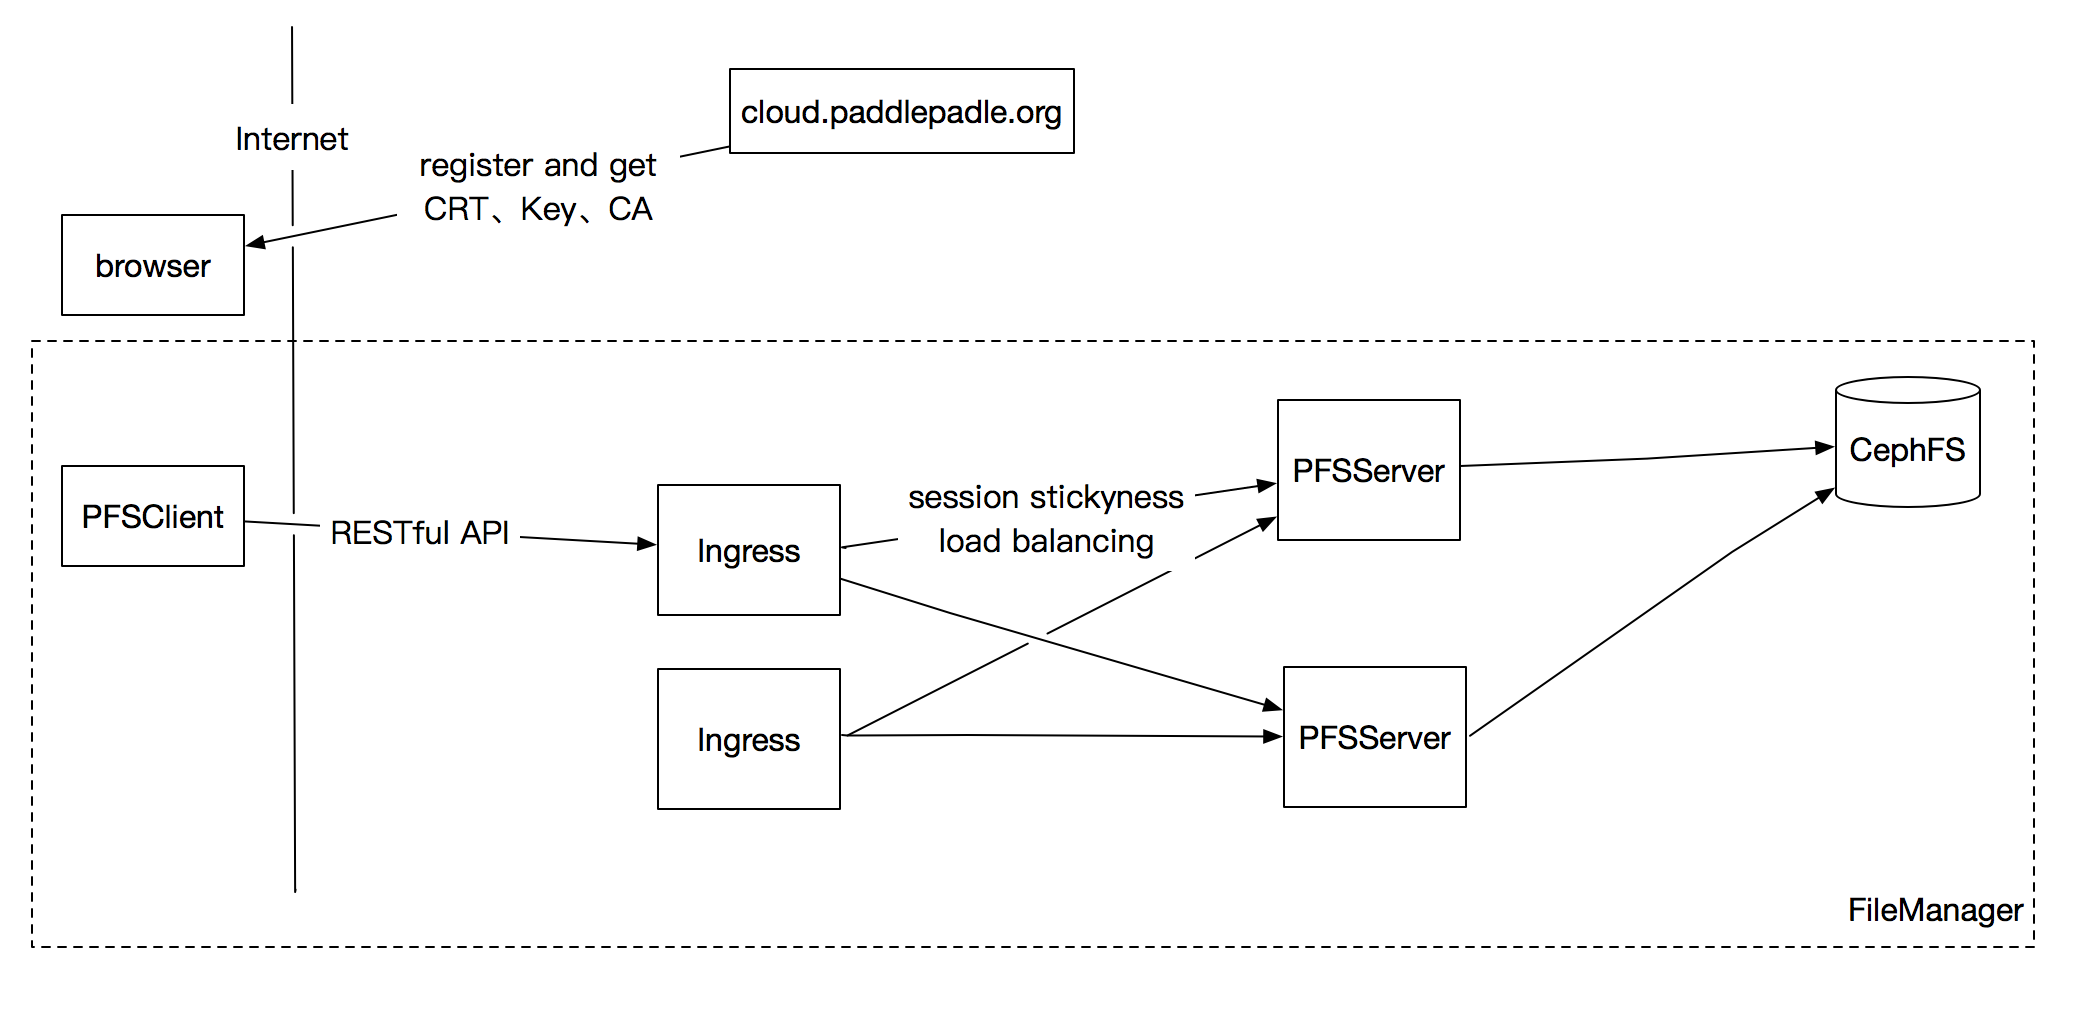
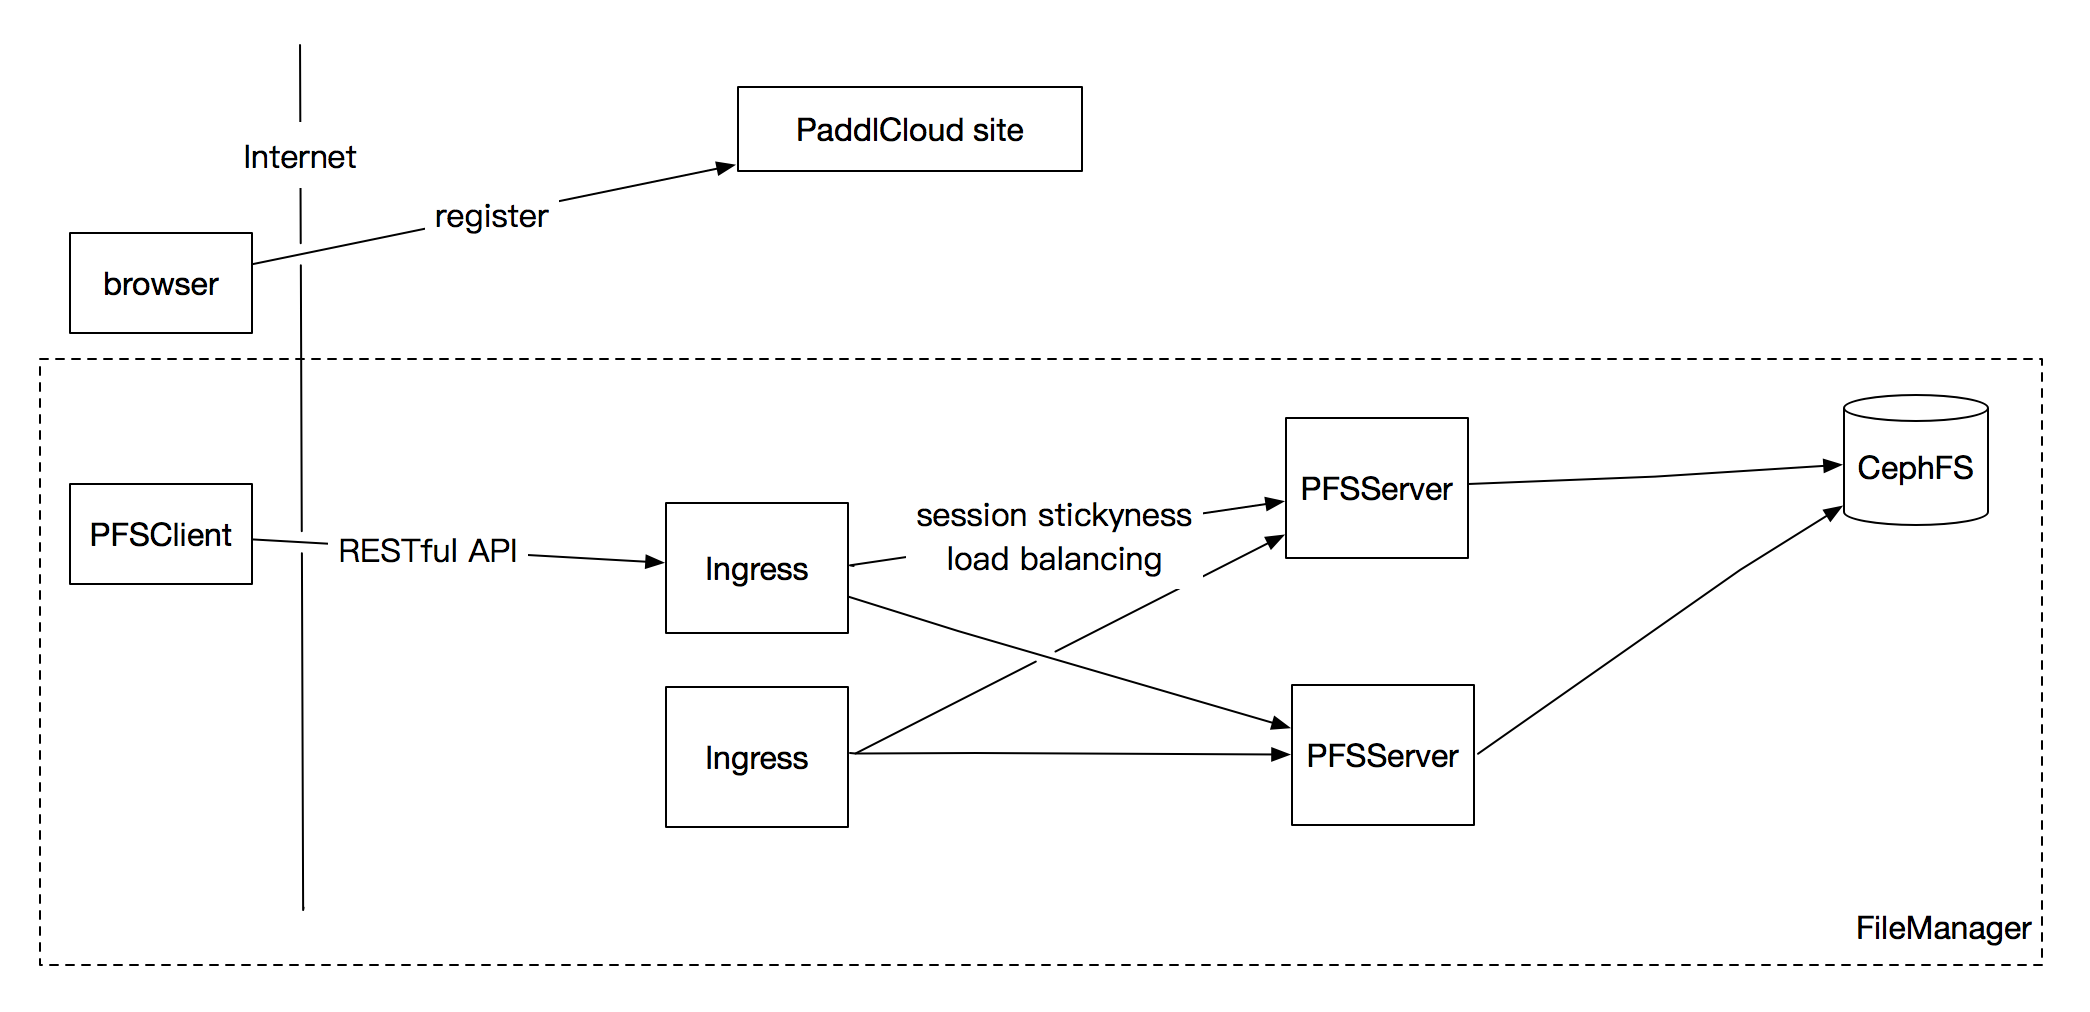
update doc

diff --git a/doc/design/file_manager/README.md b/doc/design/file_manager/README.md
@@ -20,43 +20,33 @@
 - 功能： 详细设计[link](./pfs/pfsclient.md)
 	- 提供用户管理文件的命令
 	- 需要可以跨平台执行
-
-- 双向验证   
-	PFSClient需要和Ingress之间做双向验证<sup>[tls](#tls)</sup>，所以用户需要首先在`cloud.paddlepaddle.org`上注册一下，申请用户空间，并且把系统生成的CA(certificate authority)、Key、CRT(CA signed certificate)下载到本地，然后才能使用PFSClient。
 		
-### [Ingress](https://kubernetes.io/docs/concepts/services-networking/ingress/)
+### Ingress
 - 功能：  
 	提供七层协议的反向代理、基于粘性会话的负载均衡功能。
 	
-- 透传用户身份的办法  
-	Ingress需要把PFSClient的身份信息传给PFSServer，配置的方法参考[link](http://www.integralist.co.uk/posts/clientcertauth.html#3)
-
 ### PFSServer
 PFSServer提供RESTful API接口，接收处理PFSClient端的文件管理请求，并且把结果返回PFSClient端。
 
 RESTful API
 
 - /api/v1/files
-	- `GET /api/v1/files`: Get metadata of files or directories.
-	- `POST /api/v1/files`: Create files or directories.
-	- `PATCH /api/v1/files`: Update files or directories.
-	- `DELETE /api/v1/files`: Delete files or directories.
+	- `GET /api/v1/pfs/files`: Get metadata of files or directories.
+	- `POST /api/v1/pfs/files`: Create files or directories.
+	- `PATCH /api/v1/pfs/files`: Update files or directories.
+	- `DELETE /api/v1/pfs/files`: Delete files or directories.
 
 - /api/v1/file/chunks
-	- `GET /api/v1/storage/file/chunks`: Get chunks's metadata of a file.
-
-- /api/v1/storage/files
-	- `GET /api/v1/storage/files`: Download files or directories.
-	- `POST /api/v1/storage/files`: Upload files or directories.
+	- `GET /api/v1/pfs/chunks`: Get chunks's metadata of a file.
 
 - /api/v1/storage/file/chunks
-	- `GET /api/v1/storage/file/chunks`: Download chunks's data.
-	- `POST /api/v1/storage/file/chunks`: Upload chunks's data.
+	- `GET /api/v1/storage/chunks`: Download chunks's data.
+	- `POST /api/v1/storage/chunks`: Upload chunks's data.
 
 ## 文件传输优化
 
 ### 分块文件传输
-用户文件可能是比较大的，上传到Cloud或者下载到本地的时间可能比较长，而且在传输的过程中也可能出现网络不稳定的情况。为了应对以上的问题，我们提出了Chunk的概念，一个Chunk由所在的文件偏移、数据、数据长度及校验值组成。文件的上传和下载都是通过对Chunk的操作来实现的。由于Chunk比较小（默认256K），完成一个传输动作完成的时间也比较短，不容易出错。PFSClient需要在传输完毕最后一个Chunk的时候检查destination文件的MD5值是否和source文件一致。
+用户文件可能是比较大的，上传到Cloud或者下载到本地的时间可能比较长，而且在传输的过程中也可能出现网络不稳定的情况。为了应对以上的问题，我们提出了Chunk的概念，一个Chunk由所在的文件偏移、数据、数据长度及校验值组成。文件的上传和下载都是通过对Chunk的操作来实现的。由于Chunk比较小（默认2M），完成一个传输动作完成的时间也比较短，不容易出错。
 
 一个典型的Chunk如下所示：
 
@@ -77,9 +67,6 @@ type Chunk struct {
 
 ## 用户使用流程
 参考[link](https://github.com/PaddlePaddle/Paddle/blob/develop/doc/design/cluster_train/data_dispatch.md)
-
-## 框架生成
-用[swagger](https://github.com/swagger-api/swagger-codegen)生成PFSClient和PFSServer的框架部分，以便我们可以把更多的精力放到逻辑本身上。
 
 ## 参考文档
 - <a name=tls></a>[TLS complete guide](https://github.com/k8sp/tls/blob/master/tls.md)
